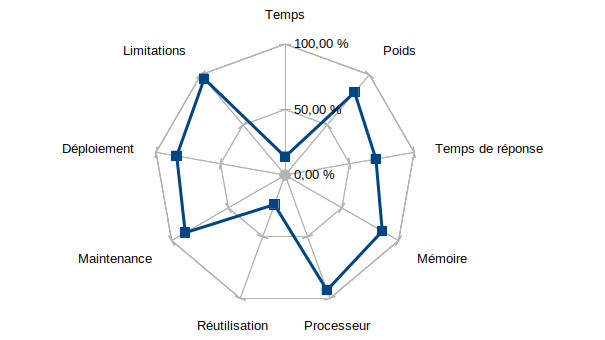
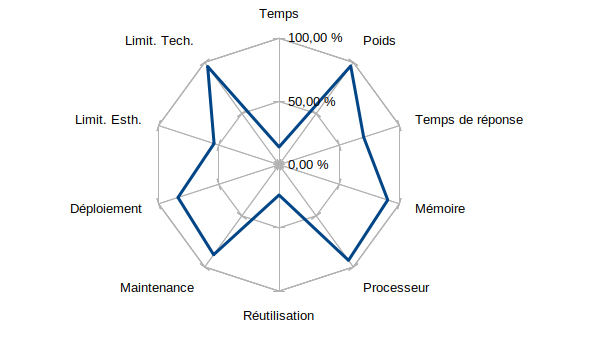
Ajoute les graphiques de synthèse

diff --git a/these/03-PresentationDesResultats.md b/these/03-PresentationDesResultats.md
@@ -388,9 +388,7 @@ On estime en 2017 le poids moyen d'une application à 15MB sur Android et 38MB s
   - Critère 3.2 (Temps de réponse) : 0.74s
   - Critère 3.3 (Poids total) : 8.75MB
 
-En appliquant la formule de calcul proposée, nous obtenons pour cette hypothèse un score moyen de 
-
-![Graphique Hypothèse 1](./GraphiqueHypothese1.png)
+[Graphique Hypothèse 1](./GraphiqueHypothese1.png)
 
 ### Hypothèse 1 - Conclusion
 
@@ -648,7 +646,9 @@ Comme pour l'hypothèse précédente, le poids des applications mobiles sont lé
   - Critère 3.1.1 (*Benchmark* processeur) : 6.80%
   - Critère 3.1.2 (*Benchmark* mémoire) : 15.05MB
   - Critère 3.2 (Temps de réponse) : 0.71s
-  - Critère 3.3 (Poids total) : 11.10Mb
+  - Critère 3.3 (Poids total) : 11.10MB
+
+[Graphique Hypothèse 2](./GraphiqueHypothese2.png)
 
 ### Hypothèse 2 - Comparatif
 
@@ -807,6 +807,8 @@ Si cette valeur semble si peu grande en comparaison aux autres hypothèse c'est 
   - Critère 3.1.2 (*Benchmark* mémoire) : 60.78MB
   - Critère 3.2 (Temps de réponse) : 1.33s
   - Critère 3.3 (Poids total) : 0.88MB
+
+[Graphique Hypothèse 3](./GraphiqueHypothese3.png)
 
 ### Hypothèse 3 - Comparatif
 
@@ -1070,6 +1072,8 @@ Du point de vue des logiciels mobiles, nous retrouvons un poids assez similaire 
   - Critère 3.2 (Temps de réponse) : 1.00s
   - Critère 3.3 (Poids total) : 8.87MB
 
+[Graphique Hypothèse 4](./GraphiqueHypothese4.png)
+
 ### Hypothèse 4 - Comparatif
 
 Cette hypothèse mélange deux approches différentes de la création d'application dans le but de mitiger les inconvénients que chaque méthode possède.
@@ -1282,6 +1286,8 @@ Comme nous pouvons le constater, le poids d'une application hybride bureau utili
   - Critère 3.1.2 (*Benchmark* mémoire) : 65.91MB
   - Critère 3.2 (Temps de réponse) : 1.23s
   - Critère 3.3 (Poids total) : 53.41MB
+
+[Graphique Hypothèse 5](./GraphiqueHypothese5.png)
 
 ### Hypothèse 5 - Comparatif
 
